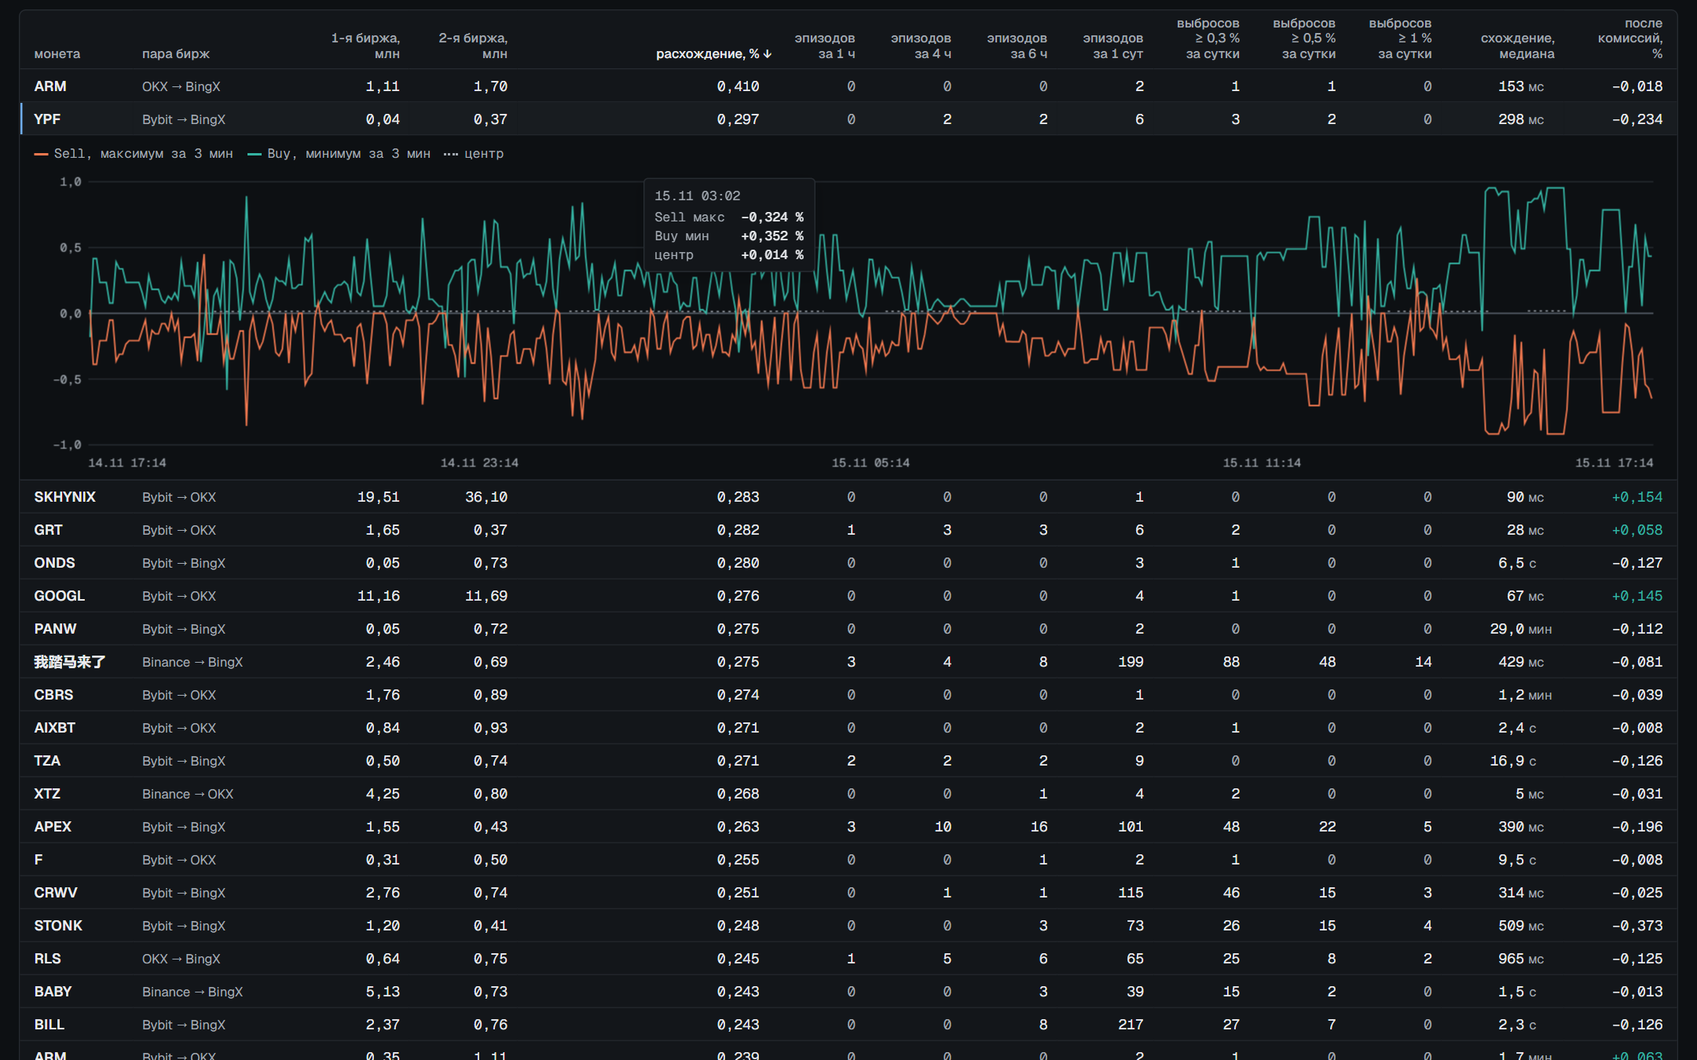
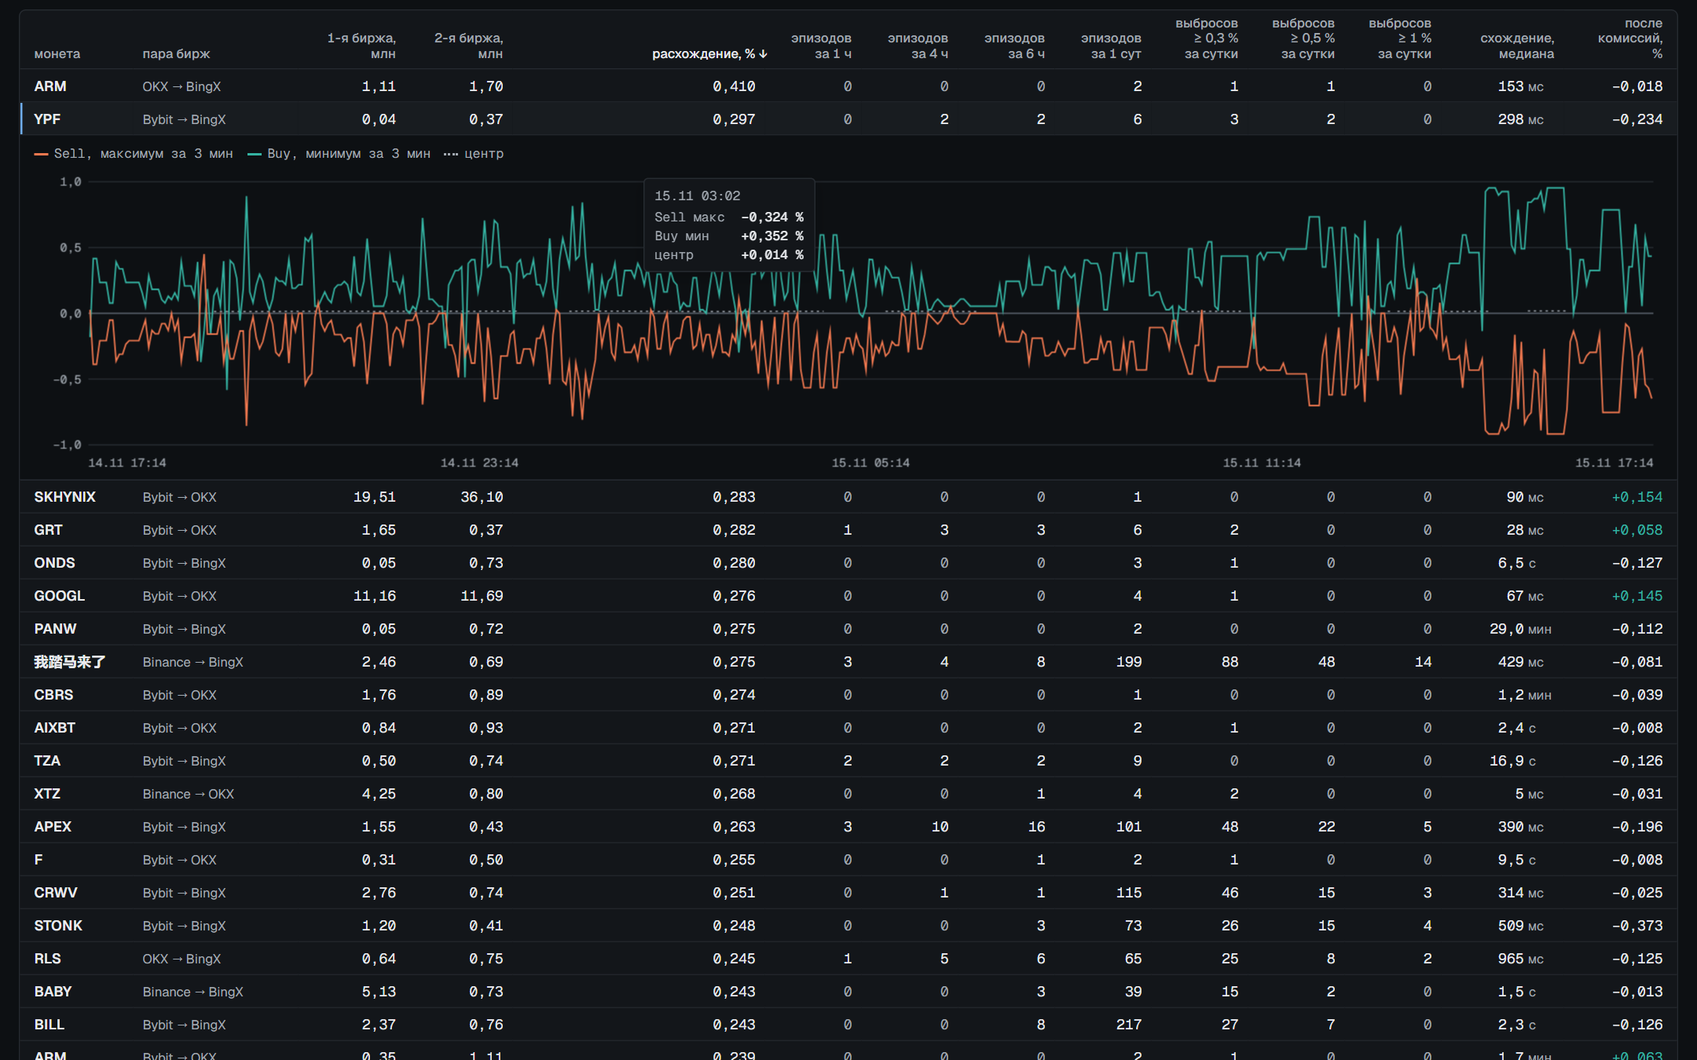
G-022: плотный макет — у столбцов свои целые ширины, при скрытии карточка сжимается слева без растяжения; тест на ширины и окно; передача дел

diff --git a/tools/collector_health/perf/layout_test_cols.js b/tools/collector_health/perf/layout_test_cols.js
@@ -14,8 +14,8 @@ const snap = () => document.fonts.ready.then(() => {
   q('#ctl button', e => o['ctl:' + e.dataset.t] = R(e));
   const cnt = document.querySelector('#ctl .cnt'); if (cnt) o.cnt = R(cnt);
   const upd = document.querySelector('#ctl .upd'); if (upd) o.upd = R(upd);
-  const tw = R(document.getElementById('tw')); o['tw.left/right/top'] = [tw[0], tw[1], tw[2], 0];
-  const tb = R(document.getElementById('tab')); o['table.left/right/top'] = [tb[0], tb[1], tb[2], 0];
+  const tw = R(document.getElementById('tw')); o['tw.left/top'] = [tw[0], tw[2], 0, 0];
+  const tb = R(document.getElementById('tab')); o['table.left/top'] = [tb[0], tb[2], 0, 0];
   o.docW = [document.documentElement.clientWidth, document.documentElement.scrollWidth, 0, 0];
   return o;
 });
@@ -33,7 +33,9 @@ const snap = () => document.fonts.ready.then(() => {
     const grid = vis.reduce((s, c) => s + (c.span || 1), 0);
     const cw = [...document.querySelectorAll('#cg col')].reduce((s, c) => s + c.getBoundingClientRect().width, 0);
     const tbw = document.getElementById('tab').getBoundingClientRect().width;
-    return { ths, vis: vis.map(c => c.k), cells, grid, cw, tbw, ls: localStorage.getItem(KEY), sort: A.st.sort, mode: A.st.mode, hid: [...A.hid], n: A.view.length, open: !document.getElementById('colpop').hidden };
+    const thw = {}; document.querySelectorAll('#tab thead th').forEach(t => thw[t.dataset.k] = Math.round(t.getBoundingClientRect().width * 100) / 100);
+    const twr = document.getElementById('tw').getBoundingClientRect(), box = document.getElementById('p-a').getBoundingClientRect();
+    return { thw, twW: twr.width, boxW: box.width - 32, ths, vis: vis.map(c => c.k), cells, grid, cw, tbw, ls: localStorage.getItem(KEY), sort: A.st.sort, mode: A.st.mode, hid: [...A.hid], n: A.view.length, open: !document.getElementById('colpop').hidden };
   }, KEY);
   const openPop = async () => { if (!(await state()).open) await pg.click('#ctl [data-cols]'); await pg.waitForTimeout(80) };
 
@@ -62,6 +64,9 @@ const snap = () => document.fonts.ready.then(() => {
       check(mode + ' hide ' + k + ': th gone', !sa.ths.includes(k) && sa.ths.length === sb.ths.length - 1, JSON.stringify(sa.ths));
       check(mode + ' hide ' + k + ': cells == header', sa.cells === sa.grid && sa.cw > 0, sa.cells + '/' + sa.grid);
       check(mode + ' hide ' + k + ': columns fill table', Math.abs(sa.cw - sa.tbw) < 1, sa.cw + ' vs ' + sa.tbw);
+      const kept = Object.keys(sa.thw).filter(x => x !== k && sb.thw[x] != null);
+      check(mode + ' hide ' + k + ': other columns keep width', kept.length === sa.ths.length && kept.every(x => Math.abs(sa.thw[x] - sb.thw[x]) < .6), JSON.stringify(kept.filter(x => Math.abs(sa.thw[x] - sb.thw[x]) >= .6).map(x => x + ' ' + sb.thw[x] + '→' + sa.thw[x])));
+      check(mode + ' hide ' + k + ': card shrinks, left kept', sa.twW < sb.twW - 20 && sa.twW <= sa.boxW + .5, sb.twW + ' → ' + sa.twW);
       check(mode + ' hide ' + k + ': stored', JSON.parse(sa.ls || '[]').includes(k), String(sa.ls));
       check(mode + ' hide ' + k + ': sort column visible', sa.vis.includes(sa.sort), sa.sort + ' in ' + sa.vis);
       check(mode + ' hide ' + k + ': rows kept', sa.n === sb.n);
@@ -74,6 +79,7 @@ const snap = () => document.fonts.ready.then(() => {
       check(mode + ' show ' + k + ': th back', sr.ths.includes(k) && sr.ths.length === sb.ths.length, JSON.stringify(sr.ths));
       check(mode + ' show ' + k + ': stored', !(JSON.parse(sr.ls || '[]').includes(k)), String(sr.ls));
       check(mode + ' show ' + k + ': table width', Math.abs(sr.tbw - sb.tbw) < .01, sr.tbw + ' vs ' + sb.tbw);
+      check(mode + ' show ' + k + ': widths restored', Object.keys(sb.thw).every(x => sr.thw[x] != null && Math.abs(sr.thw[x] - sb.thw[x]) < .01));
       res.push([mode + ' show ' + k, ...shiftOf(before, back)]);
     }
   }
@@ -107,6 +113,7 @@ const snap = () => document.fonts.ready.then(() => {
   await pg.click('#colreset'); await pg.waitForTimeout(150);
   s = await state(); const all = await pg.evaluate(() => window._arb.cols().length);
   check('reset: all columns', s.ths.length === all && s.hid.length === 0 && s.ls === null, JSON.stringify(s.ths) + ' ls=' + s.ls);
+  check('reset: card back to full width', Math.abs(s.twW - s.boxW) < .6, s.twW + ' vs ' + s.boxW);
   check('reset: boxes checked', (await pg.$$eval('#colpop input[data-ck]:not(:checked)', e => e.length)) === 0);
   check('reset: button disabled', await pg.$eval('#colreset', e => e.disabled));
   res.push(['reset', ...shiftOf(b2, await pg.evaluate(snap))]);
@@ -123,6 +130,20 @@ const snap = () => document.fonts.ready.then(() => {
   // 6. переход на «Здоровье» с открытым поповером
   await pg.click('#ctl [data-cols]'); await pg.click('#tab-h'); await pg.waitForTimeout(200); check('tab health closes popover', !(await state()).open);
   await pg.click('#tab-a'); await pg.waitForTimeout(200);
+
+  // 7. изменение размера окна при скрытых столбцах: ширины пересчитываются от новой ширины, горизонтальной прокрутки нет
+  await pg.click('#ctl [data-cols]');
+  for (const k of ['n1', 'n2', 'b1', 'b2', 'tau']) await pg.click('#colpop input[data-ck="' + k + '"]');
+  await pg.keyboard.press('Escape');
+  const w0 = await state();
+  await pg.setViewportSize({ width: W === 1180 ? 1440 : 1180, height: 900 }); await pg.waitForTimeout(250);
+  const w1 = await state(); const dw = await pg.evaluate(() => [document.documentElement.clientWidth, document.documentElement.scrollWidth]);
+  check('resize: no horizontal scroll', dw[0] === dw[1], JSON.stringify(dw));
+  check('resize: card follows page width', w1.twW <= w1.boxW + .5 && (W === 1180 ? w1.twW > w0.twW : w1.twW < w0.twW), w0.twW + ' → ' + w1.twW);
+  check('resize: table fills card', Math.abs(w1.cw - w1.tbw) < 1 && Math.abs(w1.tbw - (w1.twW - 2)) < 1.5, w1.cw + ' ' + w1.tbw + ' ' + w1.twW);
+  await pg.setViewportSize({ width: W, height: 900 }); await pg.waitForTimeout(250);
+  const w2 = await state(); check('resize back: same widths', JSON.stringify(w2.thw) === JSON.stringify(w0.thw), JSON.stringify(w2.thw));
+  await pg.click('#ctl [data-cols]'); await pg.click('#colreset'); await pg.keyboard.press('Escape');
 
   let bad = 0;
   for (const [n, m, w] of res) if (m > 0.01) { bad++; console.log('SHIFT ' + n.padEnd(34) + 'max|Δ| = ' + m.toFixed(2) + ' px (' + w + ')') }

diff --git a/tools/collector_health/page-dense.html b/tools/collector_health/page-dense.html
@@ -69,7 +69,7 @@ body{margin:0;background:var(--background);color:var(--foreground);font:12px/16p
 #colpop footer button:hover:not(:disabled){background:var(--muted)}
 #colpop footer button:disabled{opacity:.5;cursor:default}
 /* таблица (sp-dt): заголовок 11 px muted, строка 28 px, числа — Geist Mono tabular, разделитель строк — border 70 % */
-.tw{border:1px solid var(--border);border-radius:var(--radius-lg);background:var(--card);overflow:hidden}
+.tw{border:1px solid var(--border);border-radius:var(--radius-lg);background:var(--card);overflow:hidden;min-width:480px;max-width:100%}
 table.a{border-collapse:separate;border-spacing:0;width:100%;table-layout:fixed}
 table.a th{font-weight:500;font-size:11px;line-height:13px;letter-spacing:.01em;color:var(--muted-foreground);text-align:right;vertical-align:bottom;height:50px;padding:0 8px 6px;cursor:pointer;white-space:normal;user-select:none;background:var(--card);border-bottom:1px solid var(--border)}
 table.a thead tr:first-child th:first-child,table.a td:first-child{padding-left:12px}
@@ -274,7 +274,7 @@ const WT={c:6.8,p:10.2,v0:6.5,v1:6.5,size:7.6,max:7.6,n0:5.8,n1:5.8,n2:5.8,n3:5.
 const hid=new Set();try{(JSON.parse(localStorage.getItem(CKEY)||'[]')||[]).forEach(k=>{if(HIDEABLE.includes(k))hid.add(k)})}catch(e){}
 const saveCols=()=>{try{if(hid.size)localStorage.setItem(CKEY,JSON.stringify([...hid]));else localStorage.removeItem(CKEY)}catch(e){}};
 const vis=C=>C.filter(c=>FIXED.includes(c.k)||!hid.has(c.k));
-const gc=C=>C.reduce((s,c)=>s+(c.span||1),0);
+const gc=C=>C.length;
 let NC=15,colKey='',popOpen=false;
 /* колонки: kk — имя массива ключей сортировки, v — значение для ячейки */
 function cols(){
@@ -286,7 +286,7 @@ function cols(){
     {k:'size',kk:'size|out',t:'расхождение<br>p95, %',v:r=>at(r.pk,1),f:pc},
     {k:'max',kk:'max',t:'расхождение<br>макс, %',v:r=>at(r.pk,2),f:pc}
   ]:[
-    {k:'size',kk:'size|med',t:'расхождение, %',span:2,v:r=>at(r.pk,0),f:pc}
+    {k:'size',kk:'size|med',t:'расхождение, %',v:r=>at(r.pk,0),f:pc}
   ]).concat([cnt(0,'за 1 ч'),cnt(1,'за 4 ч'),cnt(2,'за 6 ч'),cnt(3,'за 1 сут'),big(0,'0,3'),big(1,'0,5'),big(2,'1')]).concat(o?[
     {k:'tau',kk:'tau|out',t:'схождение<br>p95',v:r=>at(r.tau,1),f:dur},
     {k:'net',kk:'net|out',t:'после комиссий<br>p95, %',v:r=>at(r.net,1),f:sgp}
@@ -339,8 +339,17 @@ function placePop(){const b=document.querySelector('#ctl [data-cols]'),p=$('colp
 function setPop(on){popOpen=on;const p=$('colpop');p.hidden=!on;if(on){p.innerHTML=popHtml();popFoot();placePop()}const b=document.querySelector('#ctl [data-cols]');if(b)b.setAttribute('aria-expanded',on)}
 function colsChanged(){fixSort();head();refresh();popFoot()}
 function head(){
-  const C=vis(cols()),tot=C.reduce((s,c)=>s+WT[c.k]*(c.span||1),0);
-  $('cg').innerHTML=C.map(c=>('<col style="width:'+(WT[c.k]/tot*100).toFixed(3)+'%">').repeat(c.span||1)).join('');
+  const C=vis(cols()),sum=C.reduce((s,c)=>s+WT[c.k]*(c.k==='size'&&st.mode!=='out'?2:1),0),pa=$('p-a'),cs=getComputedStyle(pa),Wc=pa.clientWidth-parseFloat(cs.paddingLeft)-parseFloat(cs.paddingRight);
+  /* у каждого столбца своя ширина — целые px, доля прежней сетки от ширины карточки («расхождение» в режиме «медиана» — две доли); остаток округления — столбцу «пара бирж», при любом наборе видимых. Скрытые места не раздают: карточка сжимается до суммы видимых, слева */
+  if(Wc>2){
+    const Wi=Wc-2,A=cols(),m=c=>c.k==='size'&&st.mode!=='out'?2:1,w={};A.forEach(c=>w[c.k]=Math.round(WT[c.k]*Wi/100)*m(c));
+    w.p+=Wi-A.reduce((s,c)=>s+w[c.k],0);
+    $('cg').innerHTML=C.map(c=>'<col style="width:'+w[c.k]+'px">').join('');
+    $('tw').style.width=C.length===A.length?'':(C.reduce((s,c)=>s+w[c.k],0)+2)+'px';
+  }else{
+    $('cg').innerHTML=C.map(c=>'<col style="width:'+(WT[c.k]*(c.k==='size'&&st.mode!=='out'?2:1)/sum*100).toFixed(3)+'%">').join('');
+    $('tw').style.width='';
+  }
   const th=c=>'<th data-k="'+c.k+'" class="'+(c.l?'l ':'')+(c.k===st.sort?'on':'')+'"'+(c.span?' colspan="'+c.span+'"':'')+'><span class="hl">'+c.t+'<i class="ar">'+(c.k===st.sort?(st.dir<0?'↓':'↑'):'')+'</i></span></th>';
   $('th').innerHTML='<tr>'+C.map(th).join('')+'</tr>';
 }
@@ -458,7 +467,7 @@ function clk(){const t=Date.now()/1000;$('clock').textContent=dm(t)+' · '+hm(t)
 function tab(a,keep){if(!a&&popOpen)setPop(false);$('p-a').hidden=!a;$('p-h').hidden=a;$('tab-a').classList.toggle('on',a);$('tab-h').classList.toggle('on',!a);
   if(!keep)history.replaceState(null,'',a?'#arb':'#health');
   clk();
-  if(a){load();if(st.open)paint()}else if(window.load)window.load()}
+  if(a){head();load();if(st.open)paint()}else if(window.load)window.load()}
 $('tab-a').onclick=()=>tab(true);$('tab-h').onclick=()=>tab(false);
 /* делегирование: один обработчик на панель, на заголовок и на тело таблицы */
 $('flt').onclick=e=>{const b=e.target.closest('button');if(!b)return;st.pair=b.dataset.p;st.open=null;flt();ctl();refresh()};
@@ -475,7 +484,7 @@ let hv=0;
 $('tb').onclick=e=>{const tr=e.target.closest('tr.r');if(!tr)return;const k=tr.dataset.k;st.open=st.open===k?null:k;paint();if(st.open){const cv=$('cv');if(cv)cv.scrollIntoView({block:'nearest'})}};
 $('tb').onmouseover=e=>{const tr=e.target.closest('tr.r');if(!tr)return;clearTimeout(hv);const k=tr.dataset.k;hv=setTimeout(()=>{const r=R.find(x=>x.k===k);if(r)fetchChart(r).catch(()=>{})},150)};
 window.addEventListener('scroll',onScroll,{passive:true});
-window.addEventListener('resize',()=>{if(popOpen)placePop();if(!$('p-a').hidden&&view.length)paint()});
+window.addEventListener('resize',()=>{if(popOpen)placePop();if(!$('p-a').hidden){head();if(view.length)paint()}});
 document.addEventListener('visibilitychange',()=>{if(document.hidden)clearTimeout(pollT);else{clk();if(!$('p-a').hidden)load();else if(window.load)window.load()}});
 setInterval(()=>{if(!document.hidden)clk()},30000);
 fixSort();flt();ctl();head();

diff --git a/docs/findings/arb-dense-visual-2026-11-15.md b/docs/findings/arb-dense-visual-2026-11-15.md
@@ -54,7 +54,7 @@
 ## Столбцы (слово владельца: «и сделай чтобы в настройках можно было настроить столбцы которые должны присутствовать какие нет на сайте»)
 - Кнопка «Столбцы» в строке «счёт» (справа, перед «данные по …»), поповер как «Колонки» у Spreader: ширина 248, отступ 12, зазор 10, радиус 24, кольцо 1 px белым 10 %, флажок 16 px (включён `#34b3a2` с галочкой `#0d1013`, выключен `#555c66`, недоступный — .5). Поповер лежит поверх страницы (`position: absolute`), поток не двигает.
 - Флажок на каждый столбец текущего режима; «монета» и «пара бирж» — всегда, флажок недоступен. В режиме «выбросы» добавляется «расхождение, макс» (его нет в «медиане»). В подвале поповера — «Показано: N из M» и «по умолчанию» (недоступна, пока всё видно).
-- Состояние — скрытые ключи в `localStorage` (`alpha.arb.cols.hidden`); по умолчанию видны все; переживает перезагрузку. Ширины видимых столбцов — доли прежней сетки, сумма = 100 %: ширина таблицы не меняется, шапка и панели стоят на месте.
+- Состояние — скрытые ключи в `localStorage` (`alpha.arb.cols.hidden`); по умолчанию видны все; переживает перезагрузку. Ширины — у каждого столбца своя, целые px (доля прежней сетки от ширины страницы; остаток округления — у «пара бирж»), скрытые места не раздают: карточка таблицы сжимается до суммы видимых и стоит слева (слово владельца: оставшиеся столбцы не растягиваются). Минимум карточки 480 px — иначе график строки не помещается; ниже него столбцы растягиваются. При изменении окна ширины пересчитываются. Шапка и панели над таблицей стоят на месте.
 - Если скрыт столбец, по которому идёт сортировка, сортировка уходит на «расхождение», а если и его нет — на первый видимый (при всех скрытых — по монете). Закрытие: кнопка, Esc (фокус возвращается на кнопку), клик снаружи, переход на «Здоровье».
 - Тест `tools/collector_health/perf/layout_test_cols.js` (`node … <url> <ширина>`): каждый флажок в обоих режимах (25 столбцов × скрыть/показать = 50 переключений), шапка и ячейки строк сходятся, столбцы заполняют таблицу, сдвиг элементов над таблицей 0,00 px, значение в `localStorage`, перезагрузка, «по умолчанию», все скрыты, график при скрытых столбцах, Esc / клик снаружи. На 1180 / 1280 / 1440: сбоев 0, сдвигов 0, ошибок 0.
 

diff --git a/docs/findings/arb-dense-handoff-2026-11-15.md b/docs/findings/arb-dense-handoff-2026-11-15.md
@@ -1,0 +1,16 @@
+# Плотный макет «Арбитраж»: передача дел, 15.11.2026 ~18:40 GMT+4
+
+Ветка `bb/g-022-arb-dense-v1-thr_pgaww747vc`, родитель `thr_ty6ae9r46y`. Отчёт — `docs/findings/arb-dense-visual-2026-11-15.md` (токены Spreader, решения, «Столбцы»). Дочерние треды — английский, итог — `bb thread tell thr_ty6ae9r46y`.
+
+## Готово (всё закоммичено, не выложено)
+- `tools/collector_health/page-dense.html` — плотный стиль (Geist / Geist Mono, строка 28 px), «Столбцы» (флажок на столбец, localStorage `alpha.arb.cols.hidden`, «по умолчанию»), у столбцов свои целые ширины, карточка сжимается слева.
+- Макет и PNG — `Downloads/alpha-arb-dense-mockup*.{html,png}`; копии PNG — `docs/findings/arb-dense-*-2026-11-15.png`.
+- Тесты: `perf/layout_test_shadcn.js` (77 действий) и `perf/layout_test_cols.js` (50 переключений + перезагрузка, сброс, окно) на 1180 / 1280 / 1440: сдвиг 0, сбоев 0, ошибок 0.
+
+## Как пересобрать
+- Скрипты и данные — `C:\Users\Георгий\AppData\Local\Temp\dense\` (`work\build.sh` — сборка макета из `page-dense.html`; `data\` — снимок arb.json / chart.jsonl / v3.json / turnover.json; `fonts\` — Geist, fontsource 5.3.0, SIL OFL; `tools\shot.js`, `popshot.js` — PNG). Если каталога нет — данные снимка взять из `Temp\shadcn\data\`, шрифты из npm `@fontsource-variable/geist`, `…/geist-mono`.
+- Тесты: `node tools/collector_health/perf/layout_test_{shadcn,cols}.js file:///…/alpha-arb-dense-mockup.html <ширина>` (Playwright + Edge, путь в начале файла).
+
+## Открыто
+- Выкладка не заказана. Если выбран плотный вариант — шрифты Geist (4 файла) вместо Inter: список имён в `serve.py` и шаг 4 `arb-shadcn-deploy-handoff-2026-11-15.md`.
+- Минимум карточки таблицы 480 px (ниже — столбцы растягиваются) — решение исполнителя, владельцу не показывалось.
